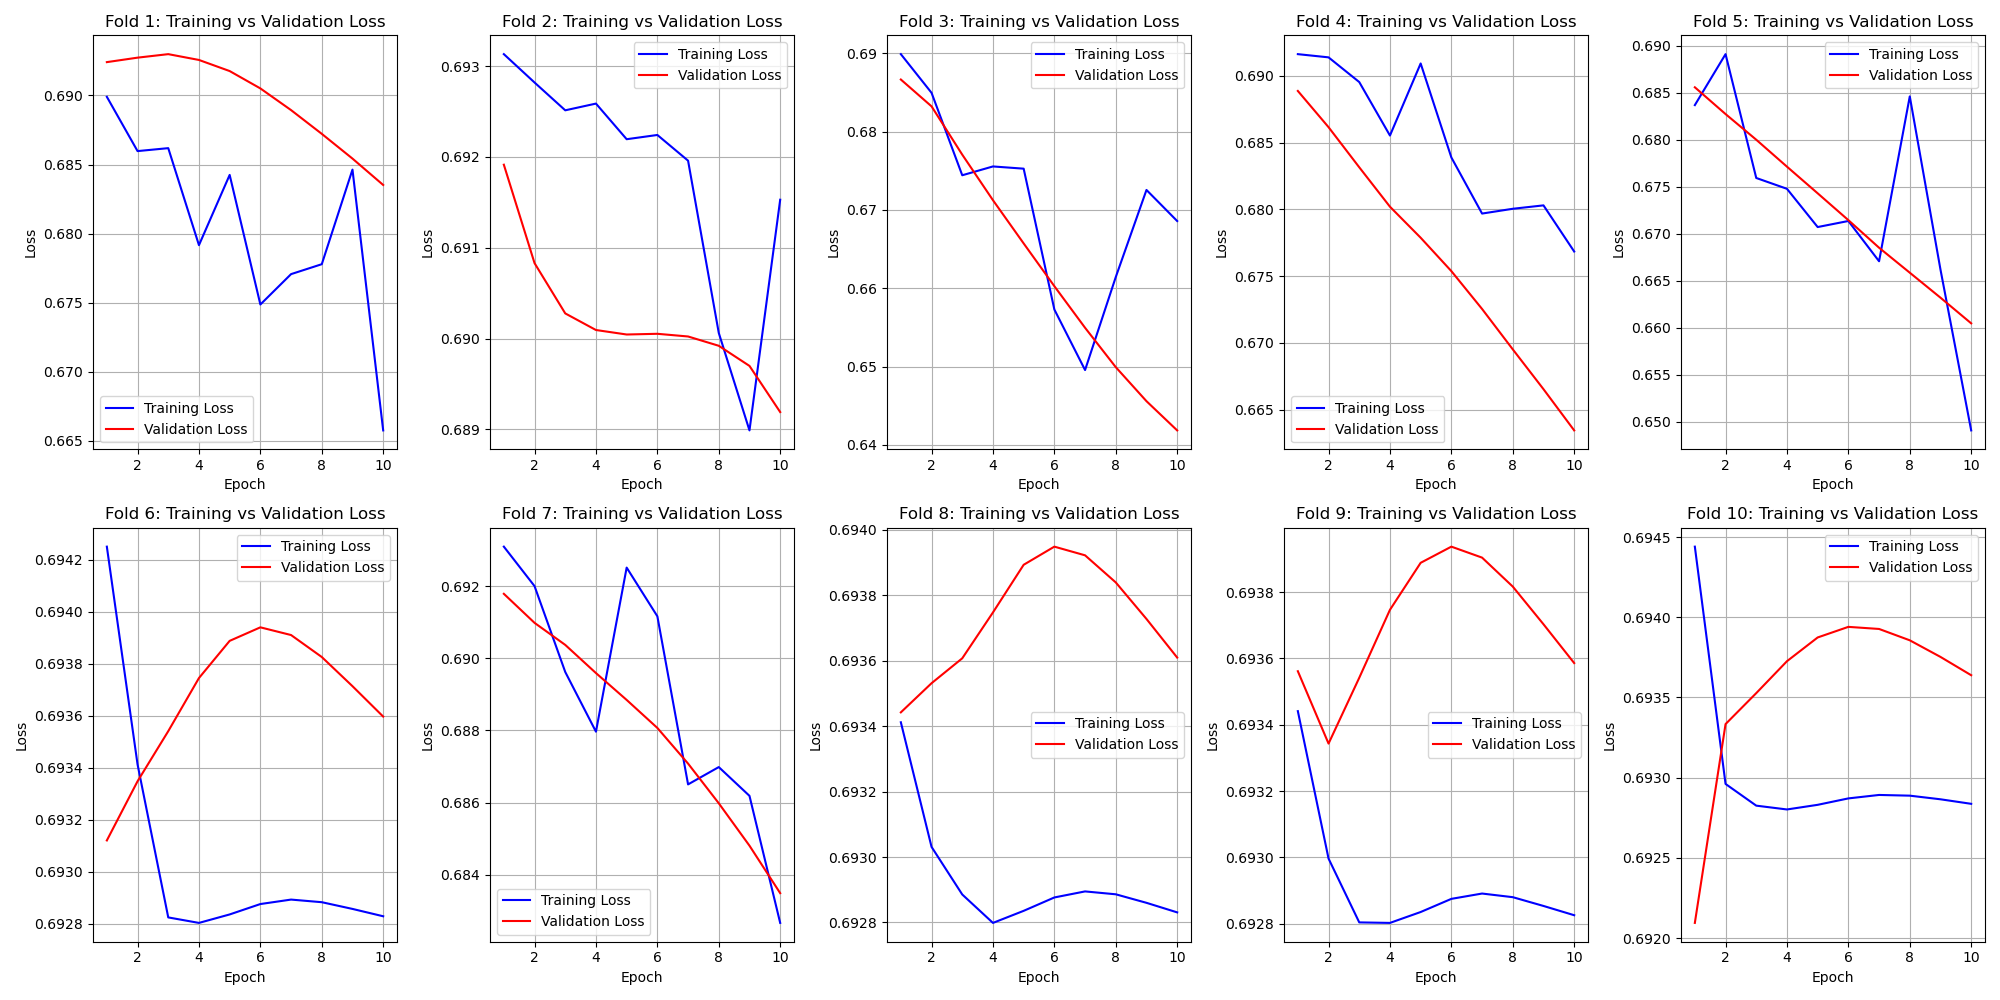
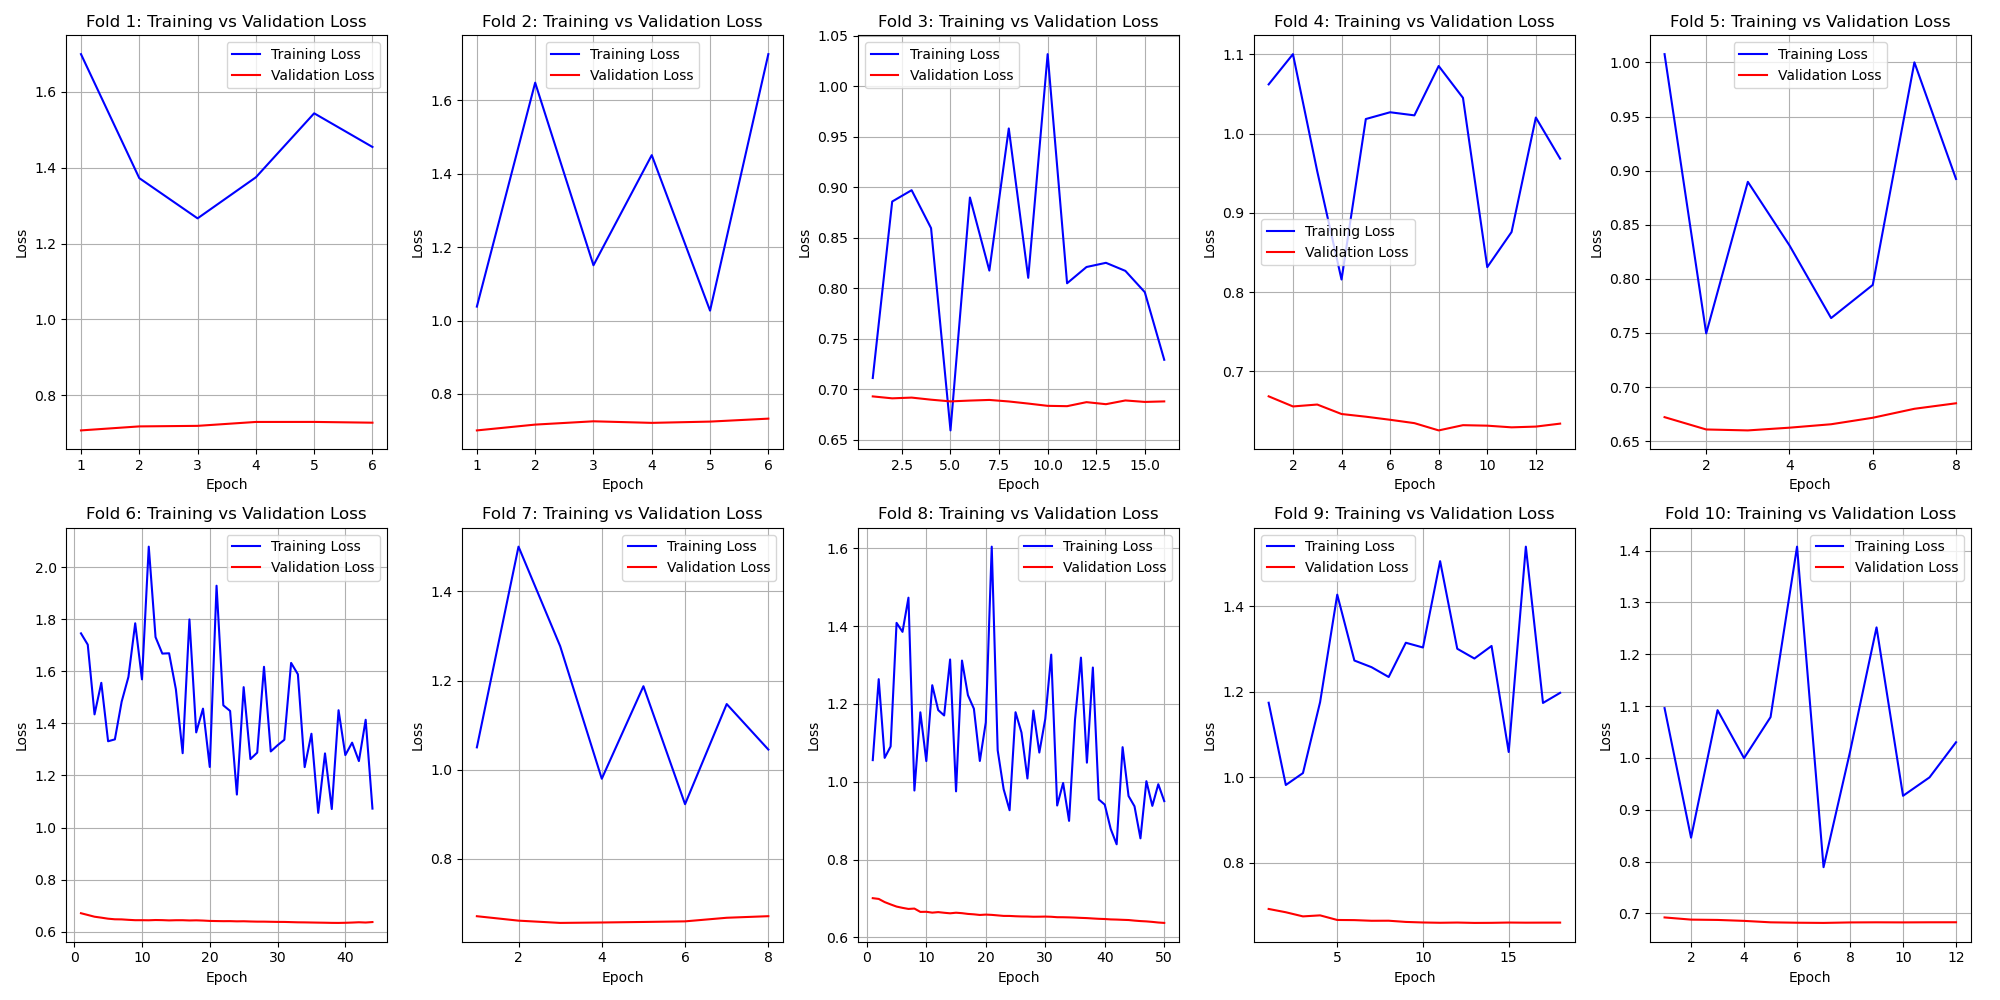
Refactor code structure for improved readability and maintainability

diff --git a/Model/KG-GCN_evaluated.py b/Model/KG-GCN_evaluated.py
@@ -21,15 +21,23 @@ class SimpleGCN(torch.nn.Module):
     def __init__(self, in_channels, hidden_channels):
         super(SimpleGCN, self).__init__()
         self.conv1 = GCNConv(in_channels, hidden_channels)
-        self.conv2 = GCNConv(hidden_channels, 2)  # 2 classes: 0 and 1
-        self.dropout = torch.nn.Dropout(p=0.5)
+        self.bn1 = torch.nn.BatchNorm1d(hidden_channels)
+        self.conv2 = GCNConv(hidden_channels, hidden_channels)
+        self.bn2 = torch.nn.BatchNorm1d(hidden_channels)
+        self.conv3 = GCNConv(hidden_channels, 2)  # 2 classes: 0 and 1
+        self.dropout = torch.nn.Dropout(p=0.7)
 
     def forward(self, data):
         x, edge_index = data.x, data.edge_index
         x = self.conv1(x, edge_index)
+        x = self.bn1(x)
         x = F.relu(x)
         x = self.dropout(x)
         x = self.conv2(x, edge_index)
+        x = self.bn2(x)
+        x = F.relu(x)
+        x = self.dropout(x)
+        x = self.conv3(x, edge_index)
         return x
 
 def extract_node_properties_and_relationships():
@@ -94,30 +102,35 @@ data = Data(x=x, edge_index=edge_index, y=y)
 # Cross-validation evaluation
 skf = StratifiedKFold(n_splits=10, shuffle=True, random_state=42)
 # accuracies = []
-precisions_k = []
-recalls_k = []
-# f1s_k = []
-ndcgs_k = []
-hits_k = []
+ks = [1, 3, 5, 10, 20]
+precisions = {k: [] for k in ks}
+recalls = {k: [] for k in ks}
+f1s = {k: [] for k in ks}
+ndcgs = {k: [] for k in ks}
+hits = {k: [] for k in ks}
 maps = []
 mean_ranks = []
 mrrs = []
 log_losses = []
 losses_per_fold = []  # To store training loss values per epoch for each fold
 val_losses_per_fold = []  # To store validation loss values per epoch for each fold
-k = 20
 
 for fold, (train_idx, test_idx) in enumerate(skf.split(range(len(nodes)), y.numpy())):
     print(f"Fold {fold + 1}:")
 
     # Create model for each fold
-    model = SimpleGCN(in_channels=x.shape[1], hidden_channels=1)
-    optimizer = torch.optim.Adam(model.parameters(), lr=0.01, weight_decay=0.01)  # Added L2 regularization
+    model = SimpleGCN(in_channels=x.shape[1], hidden_channels=16)
+    optimizer = torch.optim.Adam(model.parameters(), lr=0.001, weight_decay=0.05)  # Increased L2 regularization
 
-    # Training loop
+    # Training loop with early stopping
     losses = []  # To store training loss for each epoch in this fold
     val_losses = []  # To store validation loss for each epoch in this fold
-    for epoch in range(10):
+    best_val_loss = float('inf')
+    patience = 5
+    patience_counter = 0
+    best_model_state = None
+
+    for epoch in range(50):  # Increased max epochs
         model.train()
         optimizer.zero_grad()
         out = model(data)
@@ -132,7 +145,23 @@ for fold, (train_idx, test_idx) in enumerate(skf.split(range(len(nodes)), y.nump
             val_out = model(data)
             val_loss = F.cross_entropy(val_out[test_idx], data.y[test_idx])
             val_losses.append(val_loss.item())
+
+        # Early stopping check
+        if val_loss < best_val_loss:
+            best_val_loss = val_loss
+            patience_counter = 0
+            best_model_state = model.state_dict()
+        else:
+            patience_counter += 1
+            if patience_counter >= patience:
+                print(f"Early stopping at epoch {epoch + 1}")
+                break
+
         model.train()
+
+    # Load best model state
+    if best_model_state is not None:
+        model.load_state_dict(best_model_state)
 
     losses_per_fold.append(losses)
     val_losses_per_fold.append(val_losses)
@@ -150,19 +179,8 @@ for fold, (train_idx, test_idx) in enumerate(skf.split(range(len(nodes)), y.nump
     # Calculate metrics for this fold
     accuracy = accuracy_score(y_true, y_pred)
 
-    # Precision@k, Recall@k, F1@k, NDCG@k
-    top_k_indices = np.argsort(y_score)[::-1][:k]
-    y_true_topk = y_true[top_k_indices]
-    precision_k_val = np.sum(y_true_topk) / k
-    recall_k_val = np.sum(y_true_topk) / np.sum(y_true) if np.sum(y_true) > 0 else 0
-    f1_k_val = 2 * (precision_k_val * recall_k_val) / (precision_k_val + recall_k_val) if (precision_k_val + recall_k_val) > 0 else 0
-    ndcg_k_val = ndcg_score([y_true], [y_score], k=k)
-
-    # Hits@k, MAP
-    hits_k_val = precision_k_val  # Hits@k is equivalent to Precision@k in this binary ranking context
+    # Compute k-independent metrics once
     map_val = average_precision_score(y_true, y_score)
-
-    # MRR, Log Loss
     if np.sum(y_true) > 0:
         ranks = np.argsort(np.argsort(-y_score)) + 1  # Rank of each item (1-based)
         mean_rank_val = np.mean(ranks[y_true == 1])  # Mean rank for positive samples
@@ -172,67 +190,81 @@ for fold, (train_idx, test_idx) in enumerate(skf.split(range(len(nodes)), y.nump
         mrr_val = 0.0
     log_loss_val = log_loss(y_true, probs[test_idx])
 
-    # accuracies.append(accuracy)
-    precisions_k.append(precision_k_val)
-    recalls_k.append(recall_k_val)
-    # f1s_k.append(f1_k_val)
-    ndcgs_k.append(ndcg_k_val)
-    hits_k.append(hits_k_val)
     maps.append(map_val)
     mean_ranks.append(mean_rank_val)
     mrrs.append(mrr_val)
     log_losses.append(log_loss_val)
 
     print(f"  Accuracy: {accuracy:.4f}")
-    print(f"  Precision@{k}: {precision_k_val:.4f}")
-    print(f"  Recall@{k}: {recall_k_val:.4f}")
-    print(f"  F1Score@{k}: {f1_k_val:.4f}")
-    print(f"  NDCG@{k}: {ndcg_k_val:.4f}")
-    print(f"  Hits@{k}: {hits_k_val:.4f}")
     print(f"  MAP: {map_val:.4f}")
     print(f"  Mean Rank: {mean_rank_val:.4f}")
     print(f"  MRR: {mrr_val:.4f}")
     print(f"  Log Loss: {log_loss_val:.4f}")
+
+    # Compute metrics for each k
+    for k in ks:
+        # Precision@k, Recall@k, F1@k, NDCG@k
+        top_k_indices = np.argsort(y_score)[::-1][:k]
+        y_true_topk = y_true[top_k_indices]
+        precision_k_val = np.sum(y_true_topk) / k
+        recall_k_val = np.sum(y_true_topk) / np.sum(y_true) if np.sum(y_true) > 0 else 0
+        f1_k_val = 2 * (precision_k_val * recall_k_val) / (precision_k_val + recall_k_val) if (precision_k_val + recall_k_val) > 0 else 0
+        ndcg_k_val = ndcg_score([y_true], [y_score], k=k)
+
+        # Hits@k
+        hits_k_val = precision_k_val  # Hits@k is equivalent to Precision@k in this binary ranking context
+
+        precisions[k].append(precision_k_val)
+        recalls[k].append(recall_k_val)
+        f1s[k].append(f1_k_val)
+        ndcgs[k].append(ndcg_k_val)
+        hits[k].append(hits_k_val)
+
+        print(f"  Precision@{k}: {precision_k_val:.4f}")
+        print(f"  Recall@{k}: {recall_k_val:.4f}")
+        print(f"  F1Score@{k}: {f1_k_val:.4f}")
+        print(f"  NDCG@{k}: {ndcg_k_val:.4f}")
+        print(f"  Hits@{k}: {hits_k_val:.4f}")
     print()
 
 # Average metrics across folds
-# avg_accuracy = np.mean(accuracies)
-avg_precision_k = np.mean(precisions_k)
-avg_recall_k = np.mean(recalls_k)
-# avg_f1_k = np.mean(f1s_k)
-avg_ndcg_k = np.mean(ndcgs_k)
-avg_hits_k = np.mean(hits_k)
 avg_map = np.mean(maps)
 avg_mrr = np.mean(mrrs)
 avg_log_loss = np.mean(log_losses)
 
 print("Cross-Validation Results:")
-# print(f"Average Accuracy: {avg_accuracy:.4f} ± {np.std(accuracies):.4f}")
-print(f"Average Precision@{k}: {avg_precision_k:.4f} ± {np.std(precisions_k):.4f}")
-print(f"Average Recall@{k}: {avg_recall_k:.4f} ± {np.std(recalls_k):.4f}")
-# print(f"Average F1Score@{k}: {avg_f1_k:.4f} ± {np.std(f1s_k):.4f}")
-print(f"Average NDCG@{k}: {avg_ndcg_k:.4f} ± {np.std(ndcgs_k):.4f}")
-print(f"Average Hits@{k}: {avg_hits_k:.4f} ± {np.std(hits_k):.4f}")
 print(f"Average MAP: {avg_map:.4f} ± {np.std(maps):.4f}")
 print(f"Average MRR: {avg_mrr:.4f} ± {np.std(mrrs):.4f}")
 print(f"Average Log Loss: {avg_log_loss:.4f} ± {np.std(log_losses):.4f}")
 
+for k in ks:
+    avg_precision_k = np.mean(precisions[k])
+    avg_recall_k = np.mean(recalls[k])
+    avg_f1_k = np.mean(f1s[k])
+    avg_ndcg_k = np.mean(ndcgs[k])
+    avg_hits_k = np.mean(hits[k])
+    print(f"Average Precision@{k}: {avg_precision_k:.4f} ± {np.std(precisions[k]):.4f}")
+    print(f"Average Recall@{k}: {avg_recall_k:.4f} ± {np.std(recalls[k]):.4f}")
+    print(f"Average F1Score@{k}: {avg_f1_k:.4f} ± {np.std(f1s[k]):.4f}")
+    print(f"Average NDCG@{k}: {avg_ndcg_k:.4f} ± {np.std(ndcgs[k]):.4f}")
+    print(f"Average Hits@{k}: {avg_hits_k:.4f} ± {np.std(hits[k]):.4f}")
+
 # Visualization per fold
-metrics = ['Precision@20', 'Recall@20', 'NDCG@20', 'Hits@20', 'MAP', 'Mean Rank', 'MRR', 'Log Loss']
+metrics = ['Precision@10', 'Recall@10', 'NDCG@10', 'Hits@10', 'MAP', 'Mean Rank', 'MRR', 'Log Loss']
 folds = list(range(1, 11))
 
 fig, axes = plt.subplots(2, 4, figsize=(20, 10))
 axes = axes.flatten()
 
 for i, metric in enumerate(metrics):
-    if metric == 'Precision@20':
-        values = precisions_k
-    elif metric == 'Recall@20':
-        values = recalls_k
-    elif metric == 'NDCG@20':
-        values = ndcgs_k
-    elif metric == 'Hits@20':
-        values = hits_k
+    if metric == 'Precision@10':
+        values = precisions[10]
+    elif metric == 'Recall@10':
+        values = recalls[10]
+    elif metric == 'NDCG@10':
+        values = ndcgs[10]
+    elif metric == 'Hits@10':
+        values = hits[10]
     elif metric == 'MAP':
         values = maps
     elif metric == 'Mean Rank':
@@ -252,10 +284,14 @@ plt.tight_layout()
 plt.savefig('evaluation_metrics_per_fold.png')
 plt.show()
 
-# Overall average horizontal bar plot for head-to-head comparison
-metrics_avg = [f'Precision@{k}', f'Recall@{k}', f'NDCG@{k}', f'Hits@{k}', 'MAP', 'MRR', 'Log Loss']
-averages = [avg_precision_k, avg_recall_k, avg_ndcg_k, avg_hits_k, avg_map,  avg_mrr, avg_log_loss]
-stds = [np.std(precisions_k), np.std(recalls_k), np.std(ndcgs_k), np.std(hits_k), np.std(maps), np.std(mrrs), np.std(log_losses)]
+# Overall average horizontal bar plot for head-to-head comparison (for k=10, best performing k)
+avg_precision_10 = np.mean(precisions[10])
+avg_recall_10 = np.mean(recalls[10])
+avg_ndcg_10 = np.mean(ndcgs[10])
+avg_hits_10 = np.mean(hits[10])
+metrics_avg = ['Precision@10', 'Recall@10', 'NDCG@10', 'Hits@10', 'MAP', 'MRR', 'Log Loss']
+averages = [avg_precision_10, avg_recall_10, avg_ndcg_10, avg_hits_10, avg_map, avg_mrr, avg_log_loss]
+stds = [np.std(precisions[10]), np.std(recalls[10]), np.std(ndcgs[10]), np.std(hits[10]), np.std(maps), np.std(mrrs), np.std(log_losses)]
 
 plt.figure(figsize=(12, 8))
 bars = plt.barh(metrics_avg, averages, xerr=stds, capsize=5, color='skyblue', align='center')
@@ -272,7 +308,6 @@ plt.savefig('evaluation_metrics_average.png')
 plt.show()
 
 # Loss visualization: Training and Testing Loss per Fold
-epochs = list(range(1, 11))
 fig, axes = plt.subplots(2, 5, figsize=(20, 10))  # 2 rows, 5 columns for 10 folds
 axes = axes.flatten()
 
@@ -280,6 +315,7 @@ for fold_idx in range(10):
     ax = axes[fold_idx]
     train_losses = losses_per_fold[fold_idx]
     val_losses = val_losses_per_fold[fold_idx]
+    epochs = list(range(1, len(train_losses) + 1))
     ax.plot(epochs, train_losses, label='Training Loss', color='blue')
     ax.plot(epochs, val_losses, label='Validation Loss', color='red')
     ax.set_title(f'Fold {fold_idx + 1}: Training vs Validation Loss')
@@ -290,5 +326,27 @@ for fold_idx in range(10):
 
 plt.tight_layout()
 plt.savefig('loss_comparison_per_fold.png')
+plt.show()
+
+# New visualization: Metrics vs k
+plt.figure(figsize=(12, 8))
+precision_vals = [np.mean(precisions[k]) for k in ks]
+recall_vals = [np.mean(recalls[k]) for k in ks]
+ndcg_vals = [np.mean(ndcgs[k]) for k in ks]
+hits_vals = [np.mean(hits[k]) for k in ks]
+
+plt.plot(ks, precision_vals, marker='o', label='Precision@k', color='blue')
+plt.plot(ks, recall_vals, marker='s', label='Recall@k', color='green')
+plt.plot(ks, ndcg_vals, marker='^', label='NDCG@k', color='red')
+plt.plot(ks, hits_vals, marker='d', label='Hits@k', color='orange')
+
+plt.xlabel('k')
+plt.ylabel('Score')
+plt.title('Average Metrics vs k for KG-GCN Model')
+plt.legend()
+plt.grid(True)
+plt.xticks(ks)
+plt.tight_layout()
+plt.savefig('metrics_vs_k.png')
 plt.show()
 

diff --git a/TODO.md b/TODO.md
@@ -1,0 +1,9 @@
+# TODO for Adding Testing for @1, @3, @5, @10, @20 and Visualization in KG-GCN_evaluated.py
+
+- [ ] Change k from single value to list ks = [1, 3, 5, 10, 20]
+- [ ] Modify metric storage: Use dictionaries for k-dependent metrics (precisions, recalls, f1s, ndcgs, hits)
+- [ ] Update fold loop: Compute metrics for each k in ks
+- [ ] Update printing: Print results for each k per fold
+- [ ] Update averaging: Compute averages and stds for each k
+- [ ] Update visualizations: Add line plot for k-dependent metrics vs k, keep existing plots for k=20
+- [ ] Run the script and verify outputs
